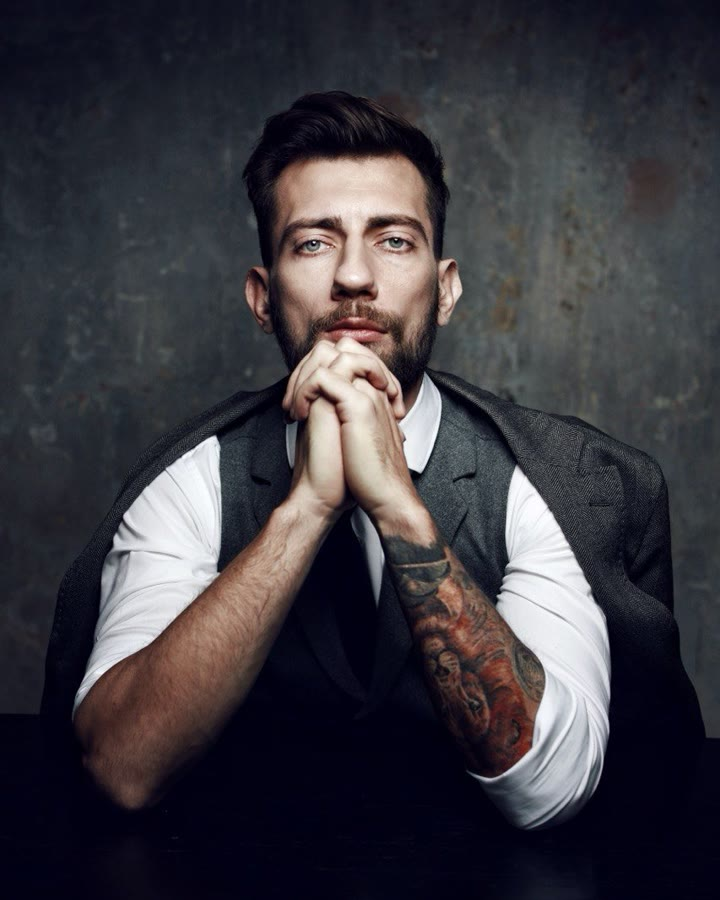
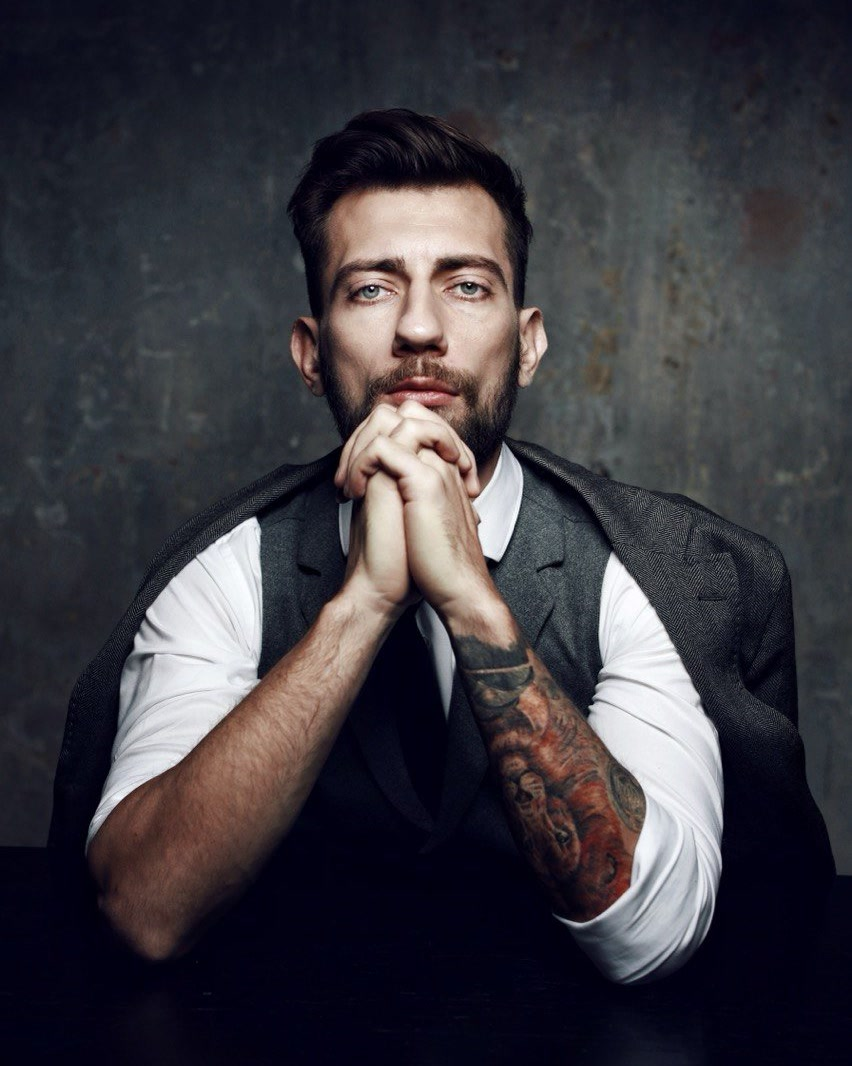
Ограничить ширину карусели на планшетах и увеличить два кадра
На планшете страница складывается в одну колонку, и карусель растягивалась
на 740 точек CSS. При удвоенной плотности экрана это 1480 реальных точек, а
в файлах кадров 720-780 — картинку увеличивало вдвое, отсюда мыло.

Ширина карусели в одноколоночной раскладке ограничена 500 пикселями.
Увеличение упало с 1.9x до 1.2x.

Кадры 01 и 04 перерезаны из исходников целиком, без уменьшения:
852x1066 и 780x976 вместо 720x900.

Кадр 02 остаётся слабым местом: исходник 512x512, при показе его тянет в
2.3 раза на любом экране с удвоенной плотностью. Нужен файл побольше.

Claude-Session: https://claude.ai/code/session_01CU3LtuLqa8bHsUeH3Nk7j7

diff --git a/site/index.html b/site/index.html
@@ -145,7 +145,12 @@ html {
   .hero-grid{
     display:grid;grid-template-columns:1.05fr .95fr;gap:56px;align-items:center;
   }
-  @media (max-width:900px){.hero-grid{grid-template-columns:1fr;gap:44px;}}
+  @media (max-width:900px){
+    .hero-grid{grid-template-columns:1fr;gap:44px;}
+    /* в одну колонку карусель растягивалась на всю ширину и кадры мылились:
+       исходники уже подложены впритык, поэтому ширину ограничиваем */
+    .stage{max-width:500px;margin-inline:auto;}
+  }
 
   .hero h1{font-size:clamp(40px,6.2vw,74px);color:var(--on-ink);}
   .hero .sub{

diff --git a/site/README.md b/site/README.md
@@ -12,7 +12,7 @@
 | `videos/reel-NN.mp4` | полные ролики, открываются по клику в лайтбоксе |
 | `videos/reel-NN-preview.mp4` | 6-секундные превью без звука, играют при наведении |
 | `images/reel-NN.jpg` | обложки роликов |
-| `images/slides/0N.jpg` | кадры карусели в шапке, 720x900 |
+| `images/slides/0N.jpg` | кадры карусели в шапке, пропорции 4:5 |
 
 ## Как добавить ещё ролик
 
@@ -29,12 +29,18 @@
 
 ## Карусель в шапке
 
-Обычная карусель: три кадра лежат готовыми картинками в `images/slides/` и
+Обычная карусель: шесть кадров лежат готовыми картинками в `images/slides/` и
 показываются сразу в полном качестве. Стрелки, точки, свайп, автолистание раз
 в 5 секунд с паузой при наведении и при скрытой вкладке. Подписи кадров — в
 массиве `KINDS` внутри `index.html`, там же порядок слайдов в разметке.
 
 При `prefers-reduced-motion` автолистание не включается, листать можно руками.
+
+Кадры режутся по 4:5 из исходника целиком, без уменьшения: чем больше файл,
+тем лучше на экранах с удвоенной плотностью точек. Ниже 900 пикселей ширины
+страница складывается в одну колонку, и там у карусели стоит `max-width:500px`.
+Без него она растягивалась на всю ширину планшета и кадры заметно мылились:
+исходники подложены впритык и запаса на увеличение не имеют.
 
 ## Как готовились ролики
 
